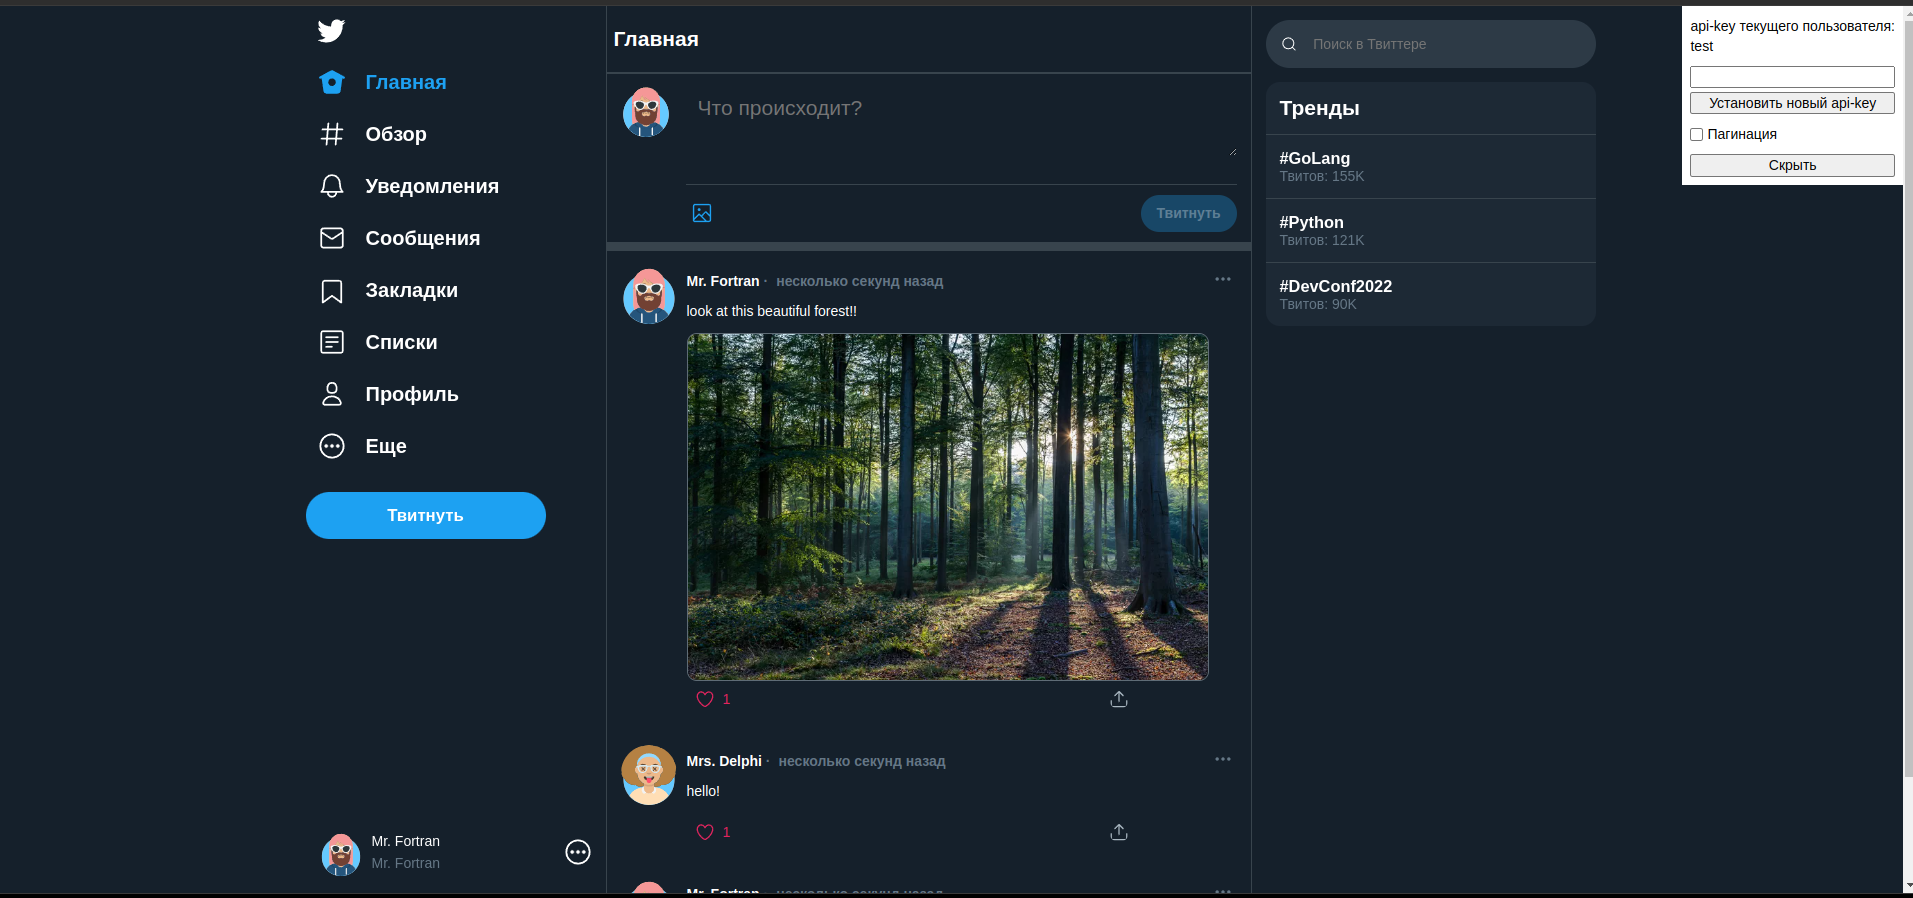
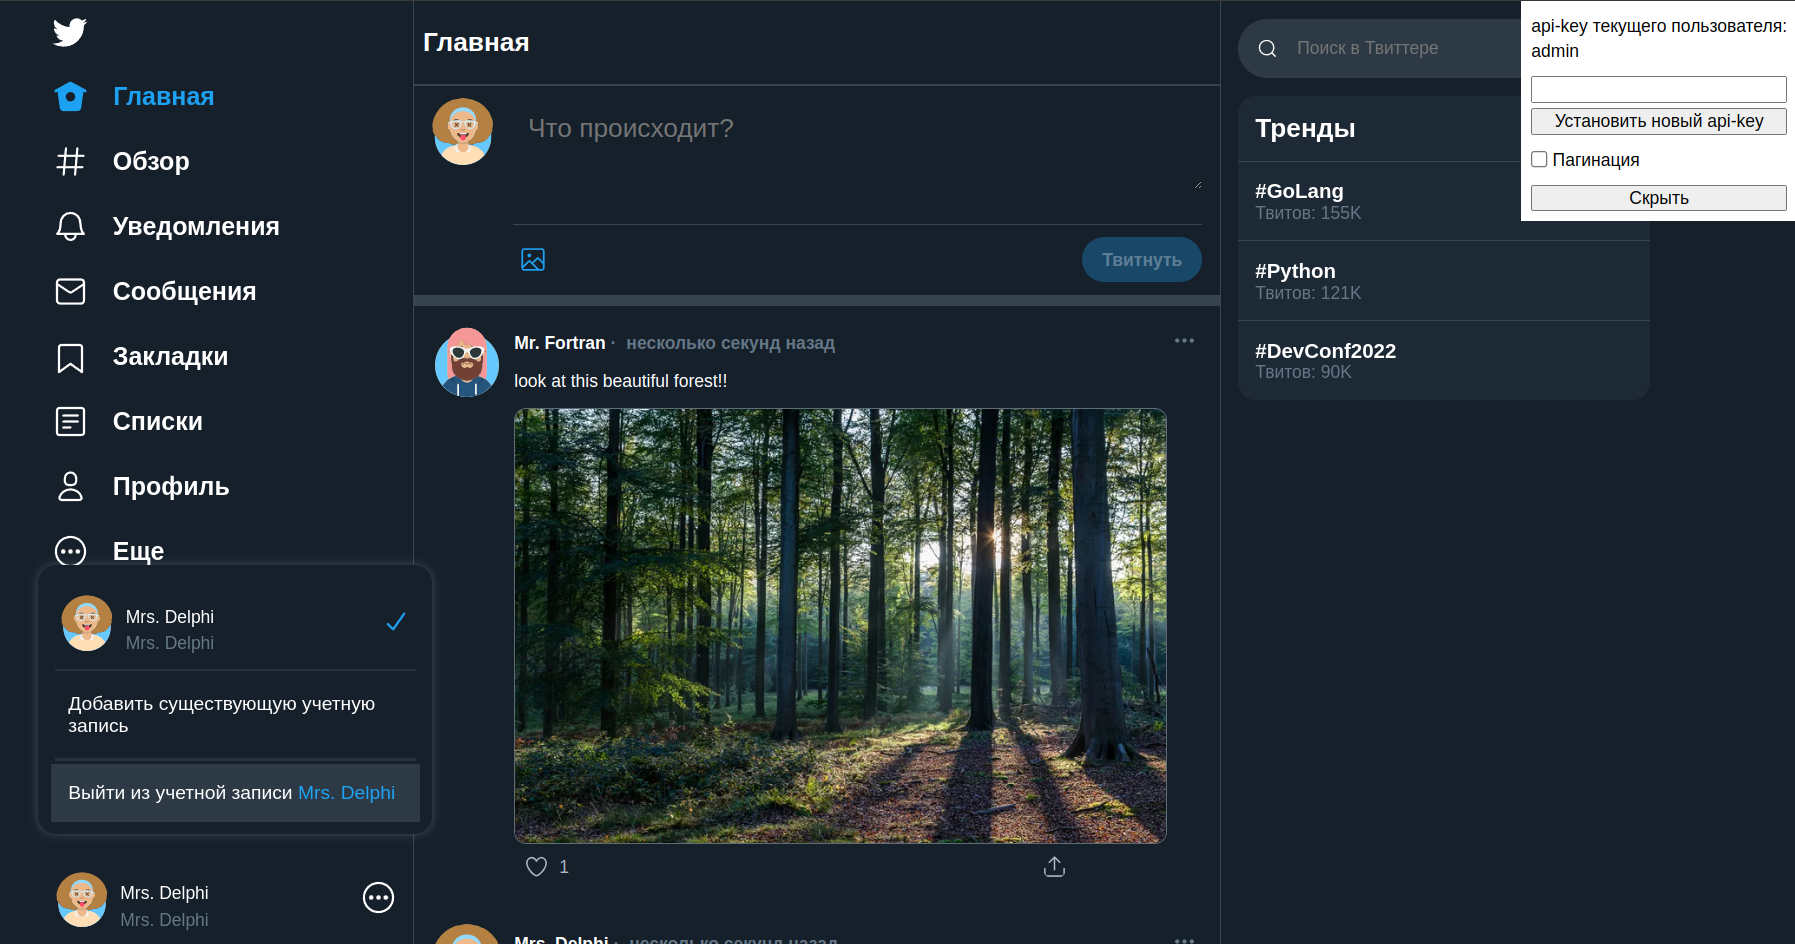
readme updated

diff --git a/README.md b/README.md
@@ -3,45 +3,54 @@
 ### Корпоративный сервис микроблогов.
 
 #### Features
+
 * Пользователь может добавить новый твит.
 * Пользователь может удалить свой твит.
 * Пользователь может зафоловить другого пользователя.
 * Пользователь может отписаться от другого пользователя.
 * Пользователь может отмечать твит как понравившийся.
 * Пользователь может убрать отметку «Нравится».
-* Пользователь может получить ленту из твитов отсортированных в порядке даты твита от пользователей, которых он фоловит, а также своих твитов.
+* Пользователь может получить ленту из твитов отсортированных в порядке даты твита от пользователей,
+  которых он фоловит, а также своих твитов.
 * Твит может содержать картинку.
 
 #### Инструментарий
-* FastAPI
-* PostgreSQL
-* SQLAlchemy (async)
+
+* Python 3.10
+* FastAPI 0.95
+* PostgreSQL 15.2
+* SQLAlchemy (async) 2.0
 
 #### Демонстрация
 
-Для запуска понадобится [установленный Docker](https://docs.docker.com/engine/install/) и логин в [докер-хабе](https://hub.docker.com/)
+Для запуска понадобится [установленный Docker](https://docs.docker.com/engine/install/) и логин
+в [докер-хабе](https://hub.docker.com/)
 
-Создайте файл `.env` и заполните по шаблону `.env.template` (для демонстрационного просмотра достаточно переименовать `.env.template` в `.env`)
+Создайте файл `.env` и заполните по шаблону `.env.template` (для демонстрационного просмотра
+достаточно переименовать `.env.template` в `.env`)
 
 Запустите команду в терминале
+
 ```shell
 docker compose up -d
 ```
 
-root - http://0.0.0.0/ (обновление страниц на дочерних url вернет ошибку 404)
+root - http://127.0.0.1/ (обновление страниц на дочерних url вернет ошибку 404)
 
-swagger - http://0.0.0.0:5000/docs/
+swagger - http://127.0.0.1:5000/docs/
 
 ---
-База данных заполнена демонстрационными данными: два пользователя, несколько твитов, один из них с картинкой, поставлены лайки.
+База данных заполнена демонстрационными данными: два пользователя, несколько твитов, один из них с
+картинкой, поставлены лайки.
 
 Демонстрационные юзеры (подписаны друг на друга):
 
 * test
 * admin
 
-Смена пользователей происходит путем воды ключа - в верхнем правом углу поле `api-key`. 
+Смена пользователей происходит путем воды ключа - в верхнем правом углу поле `api-key`.
 
-Если Вы ранее скрыли это окно, перейдите на страницу http://0.0.0.0/
+Если Вы ранее скрыли это окно, перейдите на страницу http://127.0.0.1/ или совершите "выход" из
+профиля
 
-![img.png](msc/img2.png)
+![img2.png](msc/img2.png)
